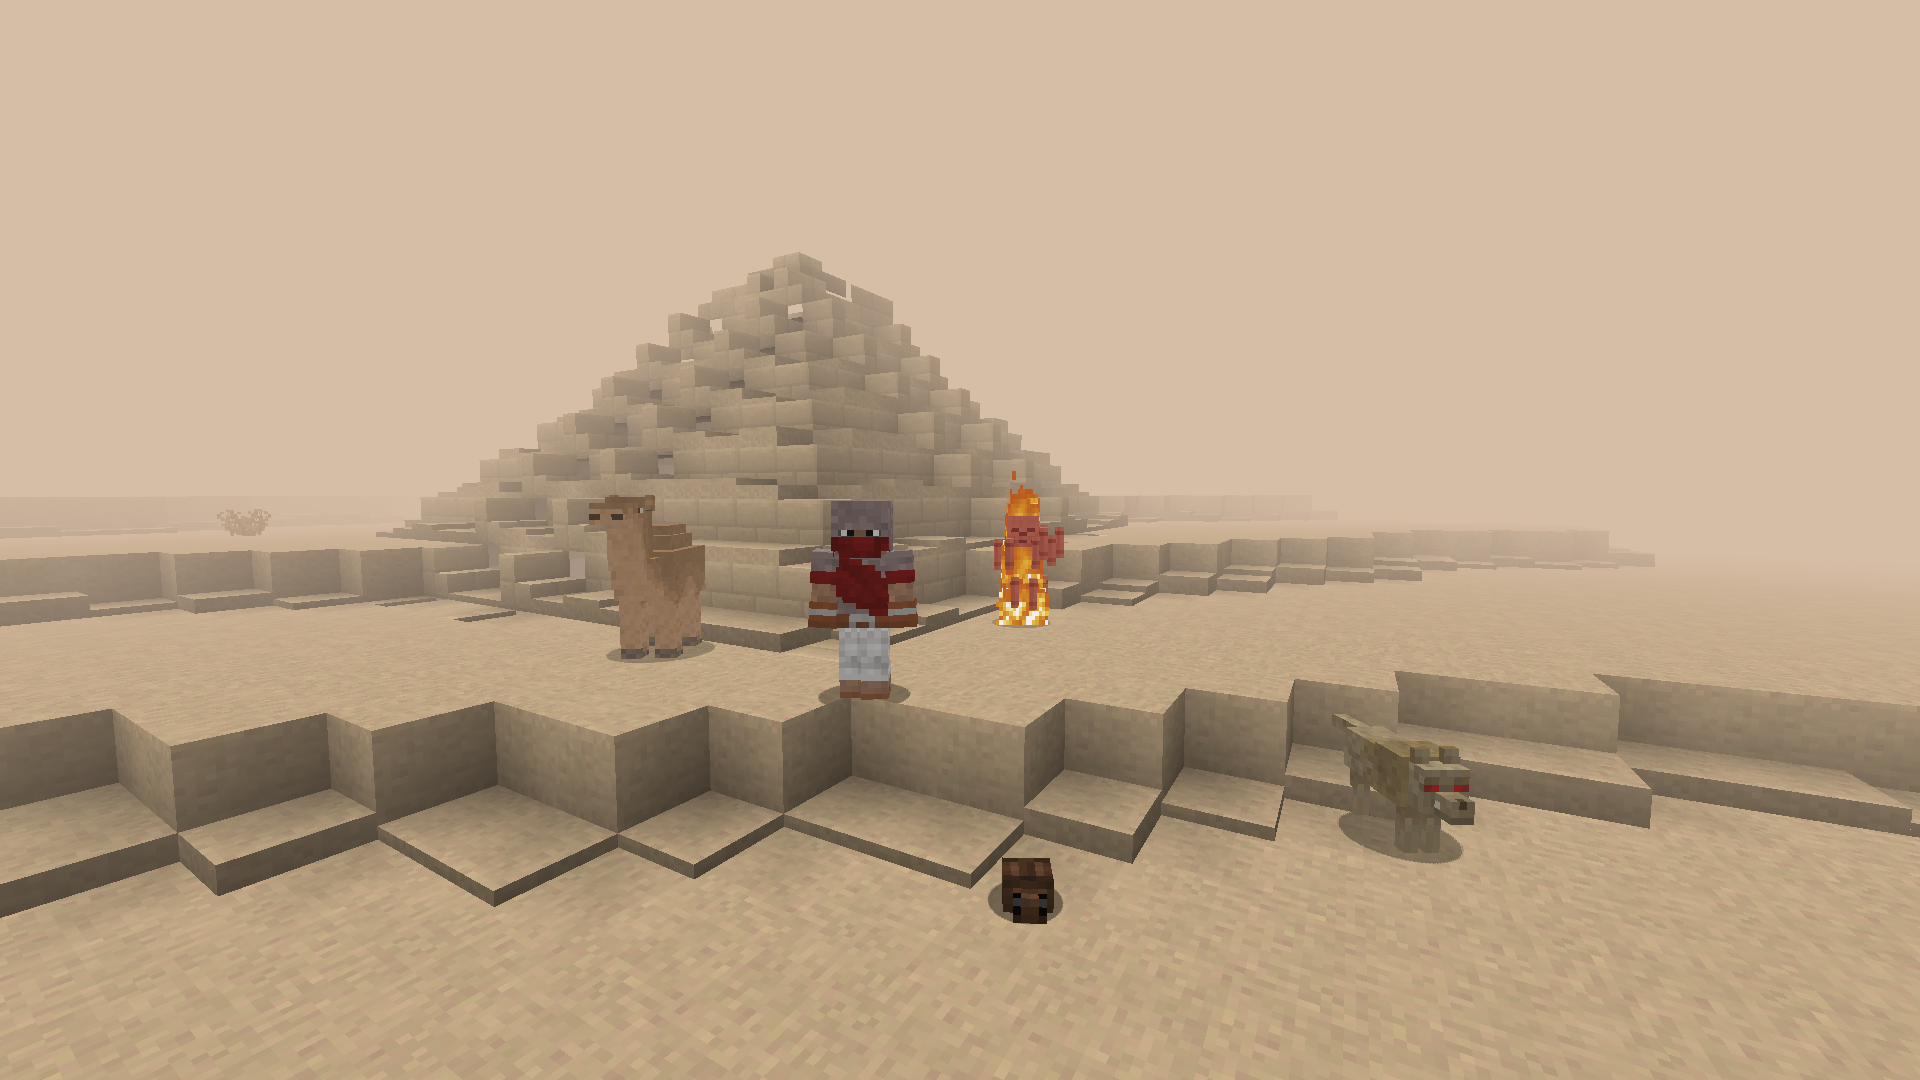
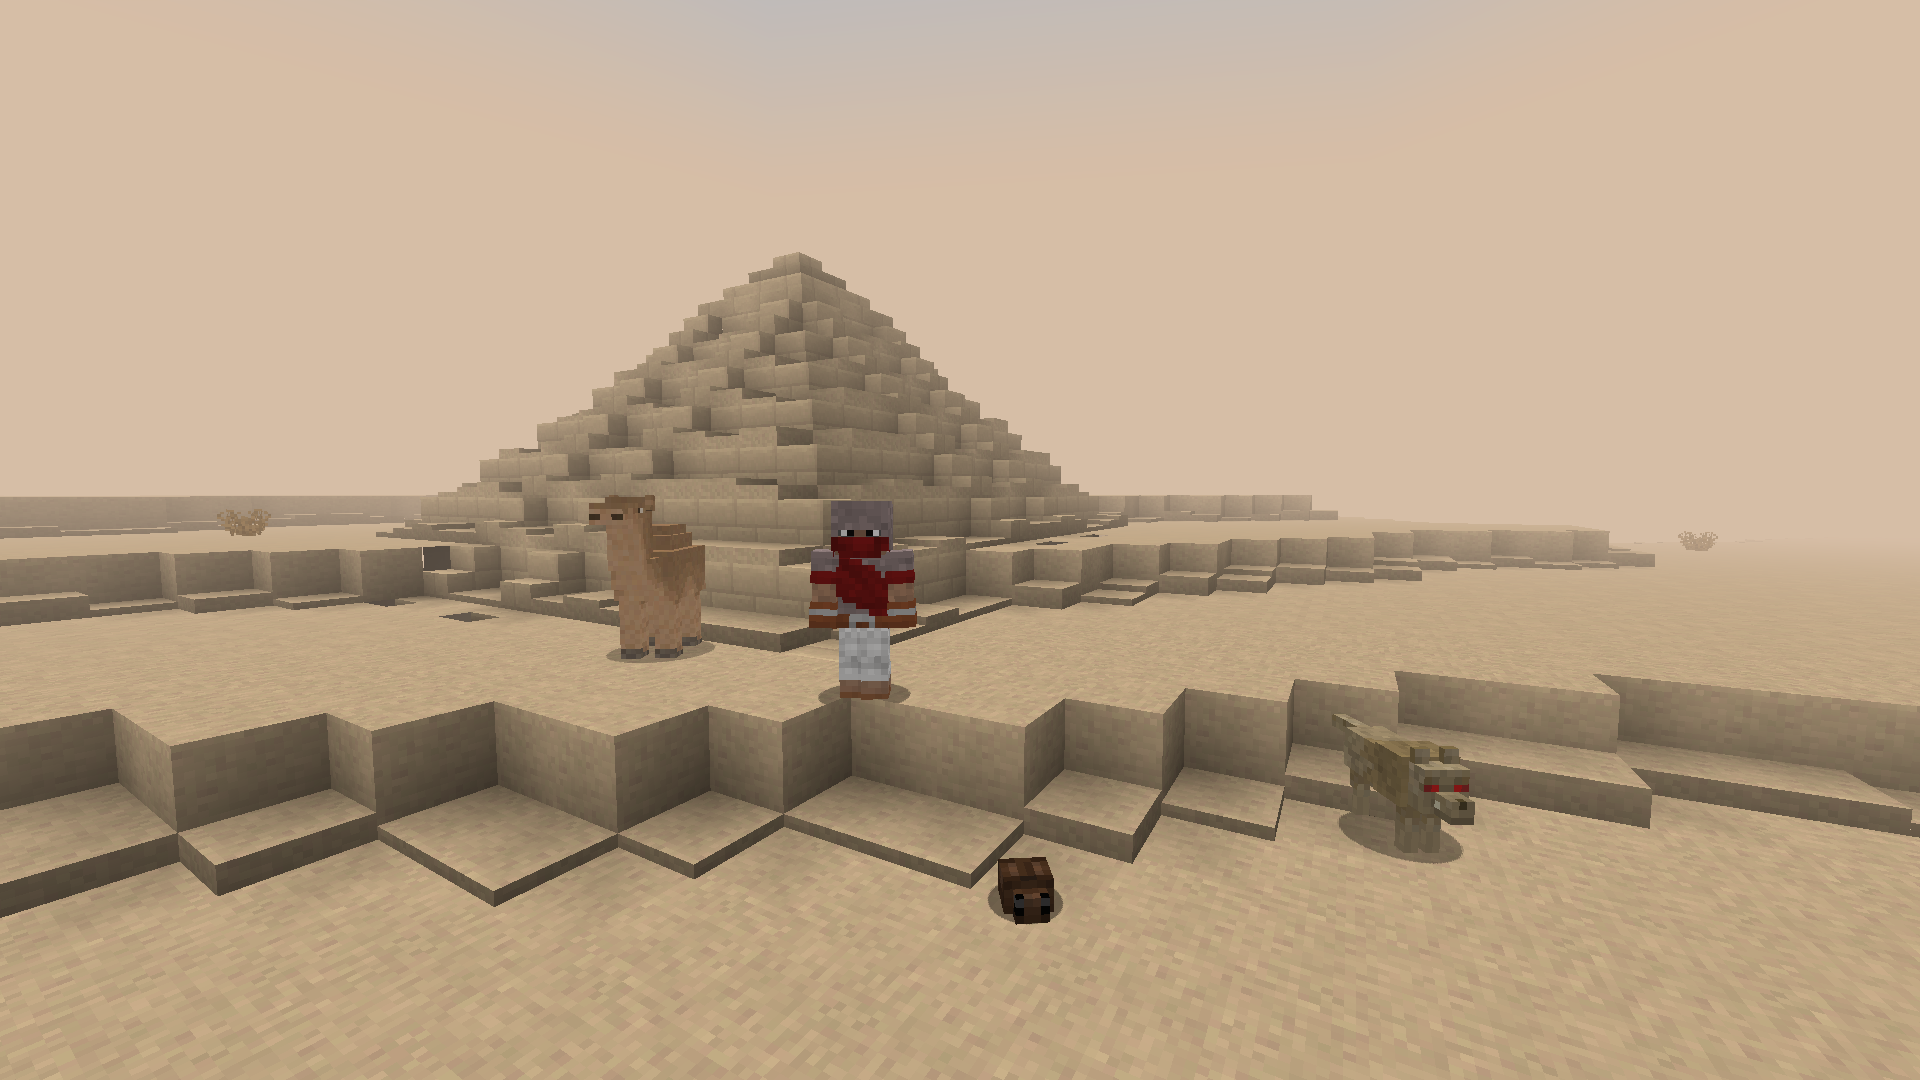
1.12.2: a structure's blocks turn with the placement by a plain virtual withRotation/withMirror call (the synthesized dispatcher skips the shim's own classes, so BlockStairs.withRotation never ran: every stair of Atum's pyramid faced 90 degrees off while its position turned); README Atum shot retake
Claude-Session: https://claude.ai/code/session_013WYWcdwszK7QxgsEKNGMgs

Changed region(s): [[0.0, 0.2444, 0.9062, 0.5806], [0.3438, 0.4278, 0.375, 0.4583]]

diff --git a/src/main/java/legacyconnector/v1_12_2/net/minecraft/world/gen/structure/template/Template.java b/src/main/java/legacyconnector/v1_12_2/net/minecraft/world/gen/structure/template/Template.java
@@ -186,7 +186,13 @@ public class Template {
 
     private static IBlockState transform(IBlockState state, String name, String argDesc, Object arg) {
         try {
-            Object own = org.kylepitcock.legacyconnector.core.synth.Synth.dispatch(state.getBlock(), name, "(" + STATE + argDesc + ")" + STATE, new Object[] {state, arg});
+            // a plain virtual call: it reaches a mod block's own override and the shim's (BlockStairs turns its facing); the synthesized
+            // dispatcher skips the shim's classes, so stairs of structures (Atum's pyramid) stayed unturned while their positions turned
+            Block block = state.getBlock();
+            IBlockState turned = name.equals("withRotation") ? block.withRotation(state, (Rotation) arg)
+                    : name.equals("withMirror") ? block.withMirror(state, (Mirror) arg) : null;
+            if (turned != null) return turned;
+            Object own = org.kylepitcock.legacyconnector.core.synth.Synth.dispatch(block, name, "(" + STATE + argDesc + ")" + STATE, new Object[] {state, arg});
             if (own instanceof IBlockState s) return s;
         } catch (Throwable e) {
             // unchanged
